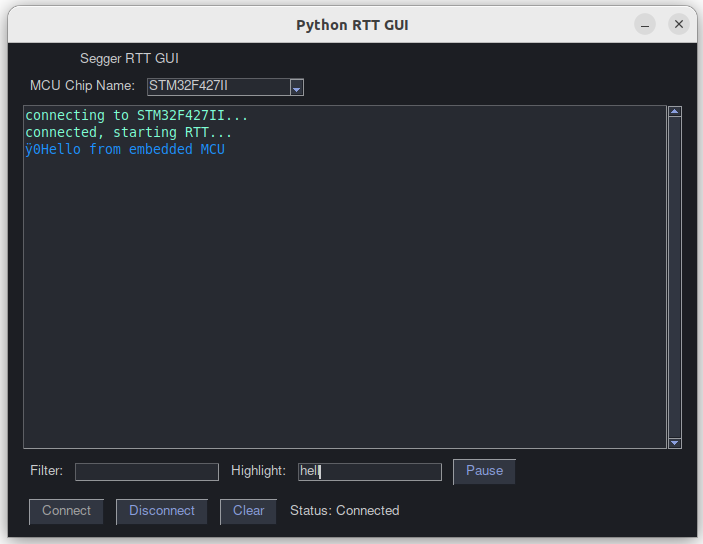
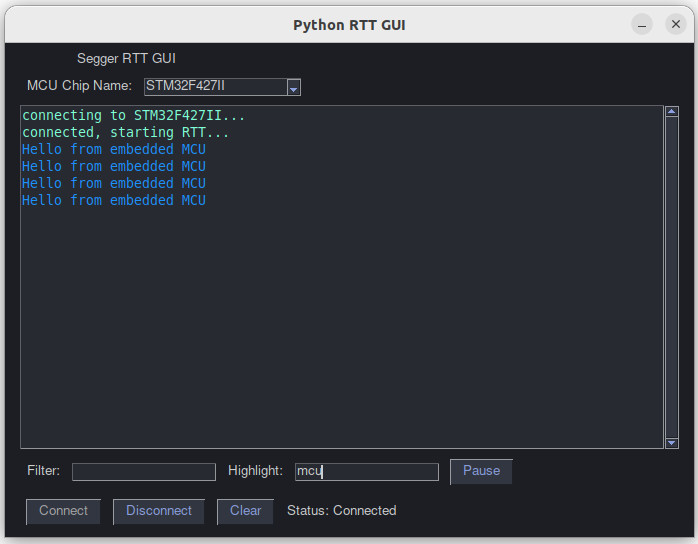
fix: clear function

diff --git a/libs/log/log_controller.py b/libs/log/log_controller.py
@@ -6,6 +6,9 @@ import traceback
 last_filter_change_time = 0
 last_highlight_change_time = 0
 last_log_gui_filter_update_date = datetime.datetime.now()
+old_raw_log_text = ""
+old_filtered_text = ""
+old_text_after_freezing = ""
 
 # Constants
 FILTER_APPLICATION_WAIT_TIME_s = 0.5
@@ -22,9 +25,6 @@ def create_update_log_text_closure(log_view):
     old_highlight_string = ""
     last_applied_highlight_string = ""
     highlight_input_active = False
-    old_raw_log_text = ""
-    old_filtered_text = ""
-    old_text_after_freezing = ""
     old_pause_text_state = False
 
     def _apply_text_filter(filter_str, unfiltered_content):
@@ -44,7 +44,7 @@ def create_update_log_text_closure(log_view):
         """
         Handle freezing of log text
         """
-        nonlocal old_text_after_freezing
+        global old_text_after_freezing
         nonlocal old_pause_text_state
         if pause_text_state != old_pause_text_state:
             ### Pause state changed
@@ -110,7 +110,7 @@ def create_update_log_text_closure(log_view):
         return filtered_text
 
     def _clear_log_text():
-        nonlocal old_text_after_freezing
+        global old_text_after_freezing
         filtered_text = ""
         old_text_after_freezing = ""
         log_view.update_log('', append=False)
@@ -121,7 +121,7 @@ def create_update_log_text_closure(log_view):
         Highlight matching text in the log
         """
         nonlocal old_highlight_string
-        nonlocal old_filtered_text
+        global old_filtered_text
         nonlocal last_applied_highlight_string
         nonlocal highlight_input_active
         global last_highlight_change_time
@@ -198,8 +198,8 @@ def create_update_log_text_closure(log_view):
         """
         Main function to update log text with filtering and highlighting
         """
-        nonlocal old_raw_log_text
-        nonlocal old_filtered_text
+        global old_raw_log_text
+        global old_filtered_text
         global last_log_gui_filter_update_date
         current_pause_state = log_view.is_log_frozen()
         raw_log_text = old_raw_log_text + new_text
@@ -220,3 +220,12 @@ def create_update_log_text_closure(log_view):
 
 def get_last_log_gui_filter_update_date():
     return last_log_gui_filter_update_date
+
+def clear_logs():
+    global old_raw_log_text
+    global old_filtered_text
+    global old_text_after_freezing
+
+    old_raw_log_text = ""
+    old_filtered_text = ""
+    old_text_after_freezing = ""

diff --git a/python_rtt_gui.py b/python_rtt_gui.py
@@ -2,9 +2,9 @@ import PySimpleGUI as sg
 import time
 import queue
 import time
+import libs.log.log_controller as log_controller
 from datetime import datetime
 from libs.jlink.rtt_handler import RTTHandler
-from libs.log.log_controller import create_update_log_text_closure, get_last_log_gui_filter_update_date, GUI_MINIMUM_REFRESH_INTERVAL_s
 from libs.log.log_view import LogView
 
 # constants
@@ -76,7 +76,7 @@ class RTTViewer:
         )
 
         # Create update closure
-        self.update_log_text = create_update_log_text_closure(self.log_view)
+        self.update_log_text = log_controller.create_update_log_text_closure(self.log_view)
 
     def _update_gui_status(self, connected):
         self._window['-STATUS-'].update(
@@ -96,7 +96,7 @@ class RTTViewer:
                 pass
 
         # call log gui update at least once per second
-        if (datetime.now() - get_last_log_gui_filter_update_date()).total_seconds() > GUI_MINIMUM_REFRESH_INTERVAL_s:
+        if (datetime.now() - log_controller.get_last_log_gui_filter_update_date()).total_seconds() > log_controller.GUI_MINIMUM_REFRESH_INTERVAL_s:
             self.update_log_text("")
 
     def _filter_mcu_list(self, filter_string):
@@ -140,7 +140,8 @@ class RTTViewer:
                     self._rtt_handler.disconnect()
                     self._update_gui_status(False)
                 if event == '-CLEAR-':
-                    self._window['-LOG-'].update('')
+                    self._window['-LOG-'].update('', append=False)
+                    log_controller.clear_logs()
                 if event in ('-FILTER-', '-HIGHLIGHT-'):
                     # Update the log display when filter or highlight changes
                     self.update_log_text("")

diff --git a/libs/jlink/rtt_handler.py b/libs/jlink/rtt_handler.py
@@ -60,7 +60,7 @@ class RTTHandler:
                 data = self._jlink.rtt_read(0, 1024)
                 if data:
                     byte_string = bytes(data)
-                    latin_string = byte_string.decode('latin-1')
+                    latin_string = byte_string[2:].decode('latin-1') # first two bytes used in header?
                     self._log_queue.put(latin_string)
                 time.sleep(0.1)
             except pylink.JLinkException:

diff --git a/README.md b/README.md
@@ -23,7 +23,7 @@ This project provides a simple and intuitive interface for connecting to and mon
 ### Use RTTViewer in Embedded Target
 - RTT source code is available in the J-Link Software and Documentation Pack,
   under the following code `JLink/Samples/RTT`
-- Include this code into your embedded project and use the following function to print log
+- Include this code into your embedded project and use the SEGGER_RTT_printf function to print log
   messages to the JLink host:
   ```C
   # include SEGGER_RTT.h
